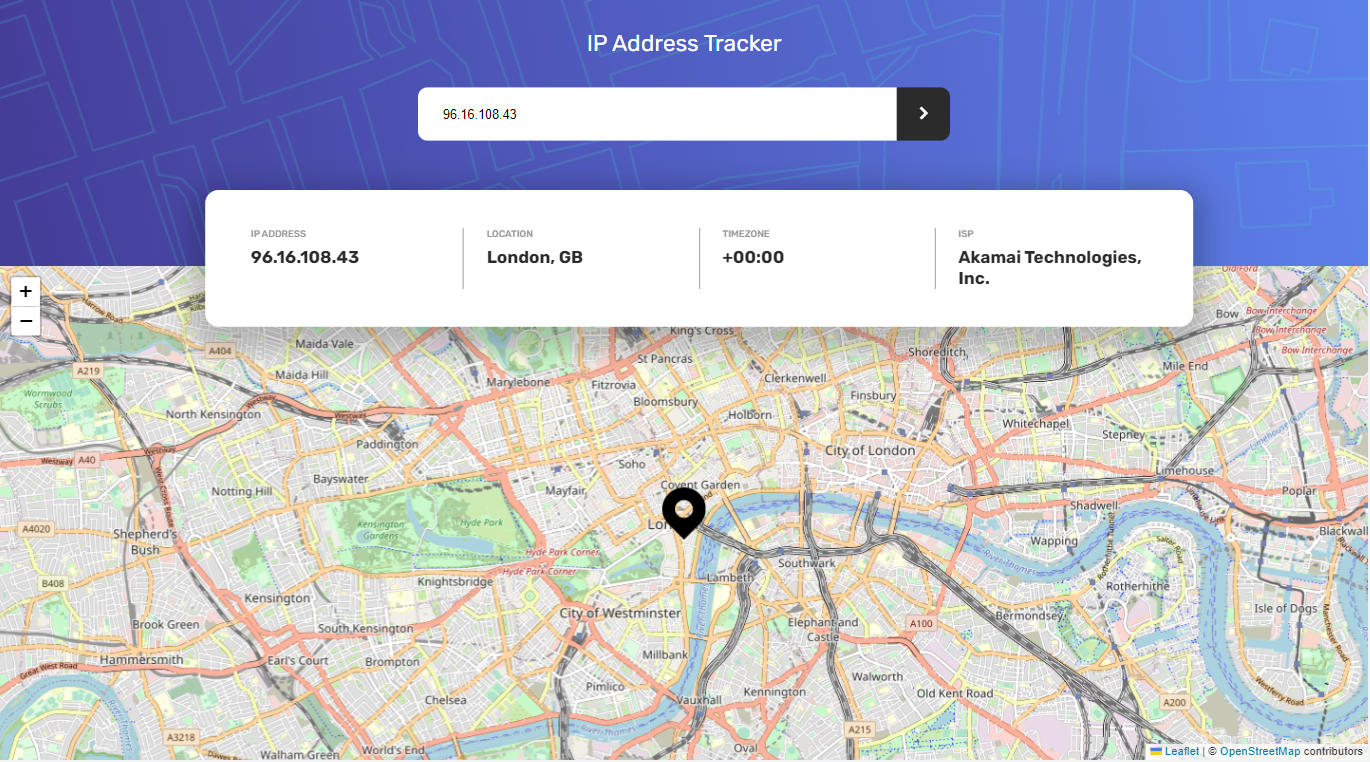
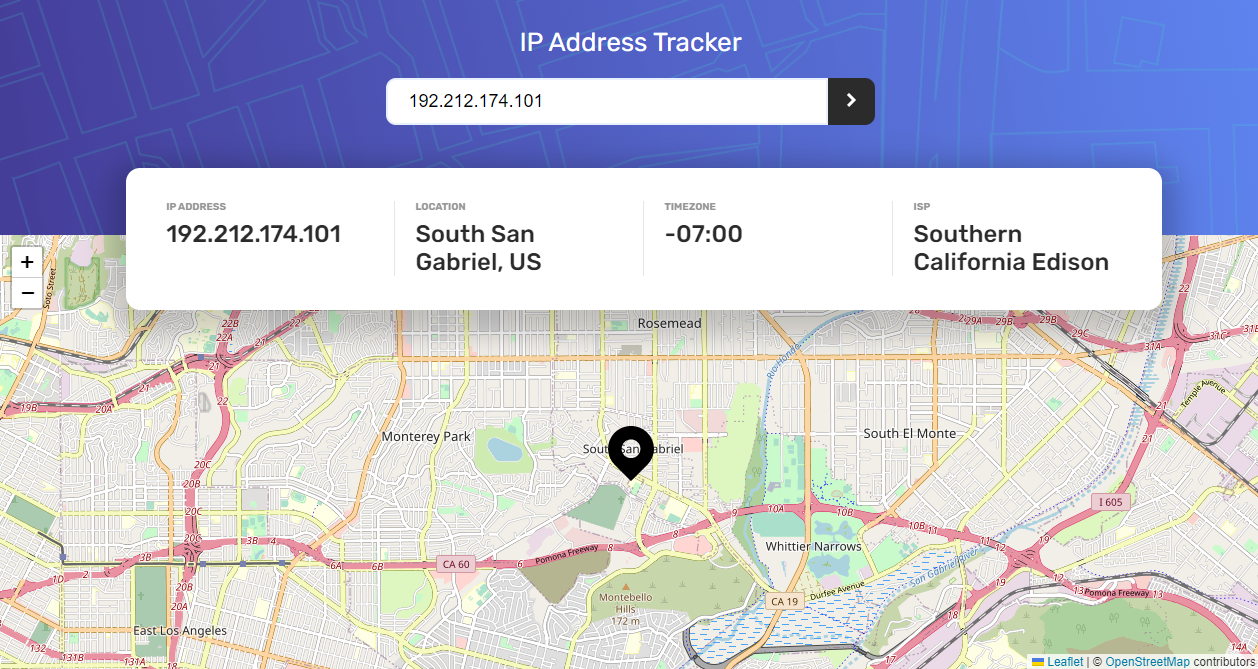
style

diff --git a/main.css b/main.css
@@ -38,7 +38,7 @@ body {
   font-family: "Rubik", sans-serif;
   text-align: center;
   min-height: 100vh;
-  font-size: 18px;
+
   display: flex;
   flex-direction: column;
 }
@@ -58,9 +58,9 @@ form {
 
 h1 {
   padding-top: 4vh;
-  padding-bottom: 4vh;
+  padding-bottom: 3vh;
   color: white;
-  font-size: 24px;
+  font-size: 26px;
   font-weight: 400;
 }
 
@@ -71,6 +71,7 @@ h1 {
   padding-left: 3vh;
   padding-right: 3vh;
   border-color: transparent;
+  font-size: 18px;
 }
 
 #searchInput:focus {
@@ -95,10 +96,10 @@ button:hover {
 }
 
 .result {
-  width: 70%;
+  width: 80%;
   position: absolute;
   margin-top: 25vh;
-  left: 15%;
+  left: 10%;
   background-color: white;
   padding: 2vh;
   border: transparent;
@@ -117,7 +118,7 @@ button:hover {
 .resultItem:nth-child(1),
 .resultItem:nth-child(2),
 .resultItem:nth-child(3) {
-  border-right: 1px solid hsl(0, 0%, 59%);
+  border-right: 1px solid hsl(0, 0%, 90%);
 }
 
 .resultItem {
@@ -125,6 +126,8 @@ button:hover {
   text-align: left;
   padding-left: 3vh;
   padding-right: 3vh;
+  font-size: 24px;
+  font-weight: 500;
 }
 
 .resultNames {
@@ -138,9 +141,6 @@ button:hover {
   font-size: 10px;
   font-weight: 500;
   text-transform: uppercase;
-}
-
-.resultUser {
   font-weight: 700;
 }
 
